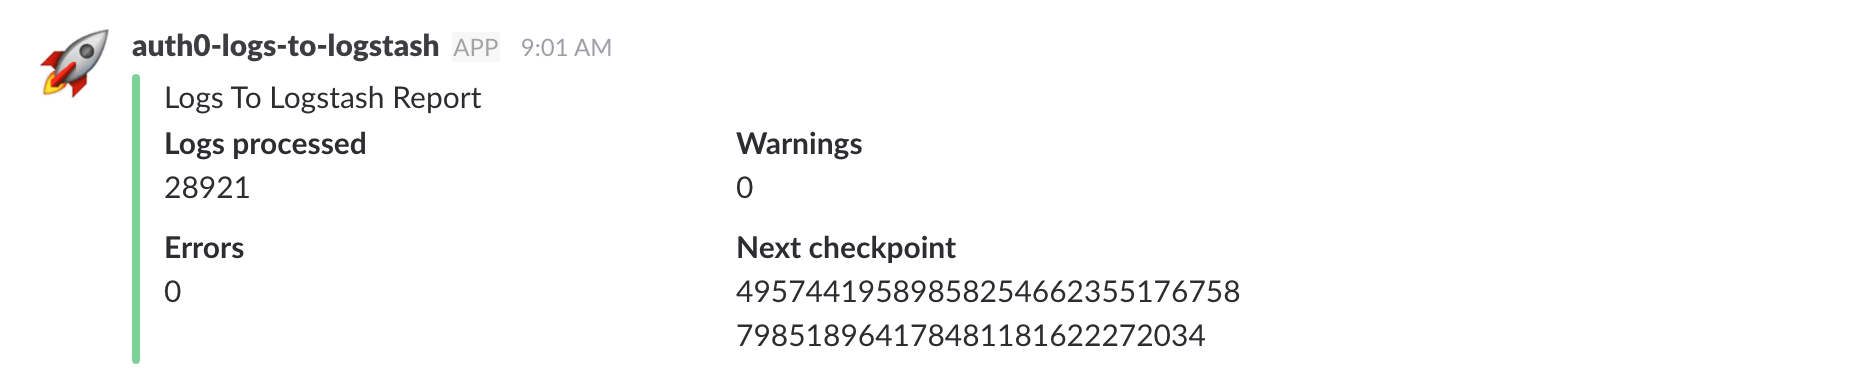
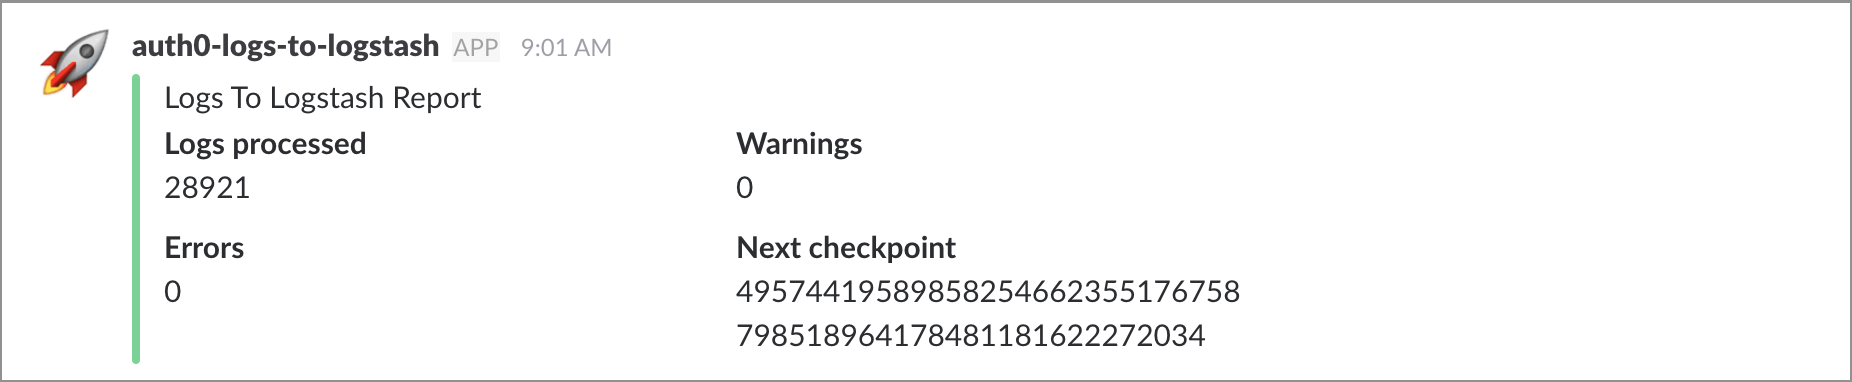
Remove versioning, update content formatting, add image border

Changed region(s): [[0.0, 0.9791, 1.0, 1.0], [0.0, 0.0, 1.0, 0.0288], [0.0, 0.2016, 0.0308, 0.2592]]

diff --git a/articles/extensions/logstash.md b/articles/extensions/logstash.md
@@ -8,7 +8,7 @@ The **Auth0 Logs to Logstash** is a scheduled job that takes all of your Auth0 l
 
 ## Configure the Extension
 
-To install and configure this extension, click on the _Auth0 Logs to Logstash_ box in the list of provided extensions on the [Extensions](${manage_url}/#/extensions) page of the [Management Portal](${manage_url}). The _Install Extension_ window pops open.
+To install and configure this extension, click on the **Auth0 Logs to Logstash** box in the list of provided extensions on the [Extensions](${manage_url}/#/extensions) page of the [Management Portal](${manage_url}). The **Install Extension** window pops open.
 
 ![Dashboard > Logstash Extension](/media/articles/extensions/logstash/extension-mgmt-logstash.png)
 
@@ -43,4 +43,23 @@ You can view more details by clicking on the job you created. In this page you c
 
 ![View Cron Job Details](/media/articles/extensions/logstash/view-cron-details.png)
 
-That's it, you are done! Have fun analyzing and visualizing those logs!
+## Replay Logs
+
+In the event of a Logstash failure or service interuption you can replay the logs starting from the failed log.
+
+To replay logs: 
+
+1. Get the checkpoint ID of the failed log.
+2. Go to the Auth0 Logs to Logstash extension settings.
+3. Enter the checkpoint in the **START_FROM** field.
+4. Click the **Save** button to replay the failed logs.
+
+## Slack Integration
+
+To set up [Slack](https://slack.com/) integration, provide an [Incoming Webhook URL](https://api.slack.com/incoming-webhooks) to the **SLACK_INCOMING_WEBHOOK** field in the Auth0 Logs to Logstash [extension settings](${manage_url}/#/extensions).
+
+![Slack Settings](/media/articles/extensions/logstash/slack-settings.png)
+
+The extension sends failed transaction notifications to Slack with the checkpoint code displayed in the message. You can also enable verbose notifications by turning on the `SLACK_SEND_SUCCESS` setting.
+
+![Slack Message](/media/articles/extensions/logstash/slack-message.png)
